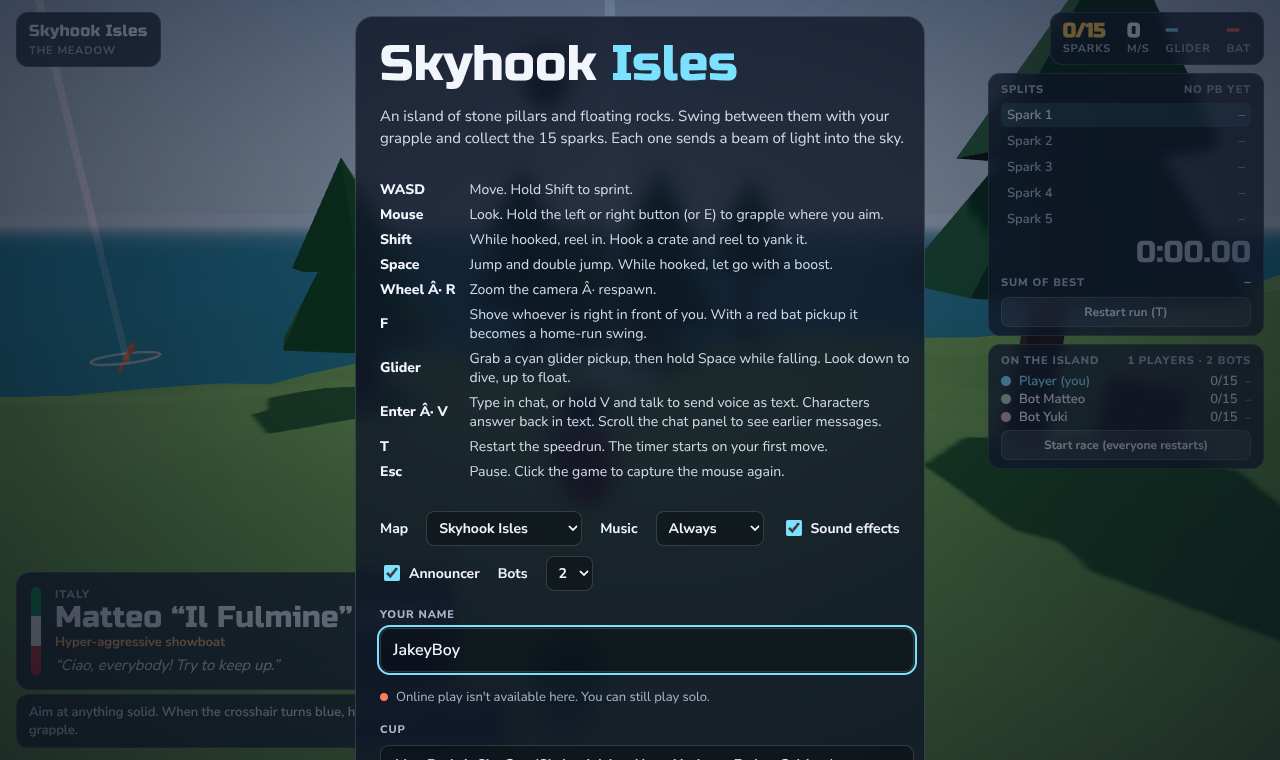
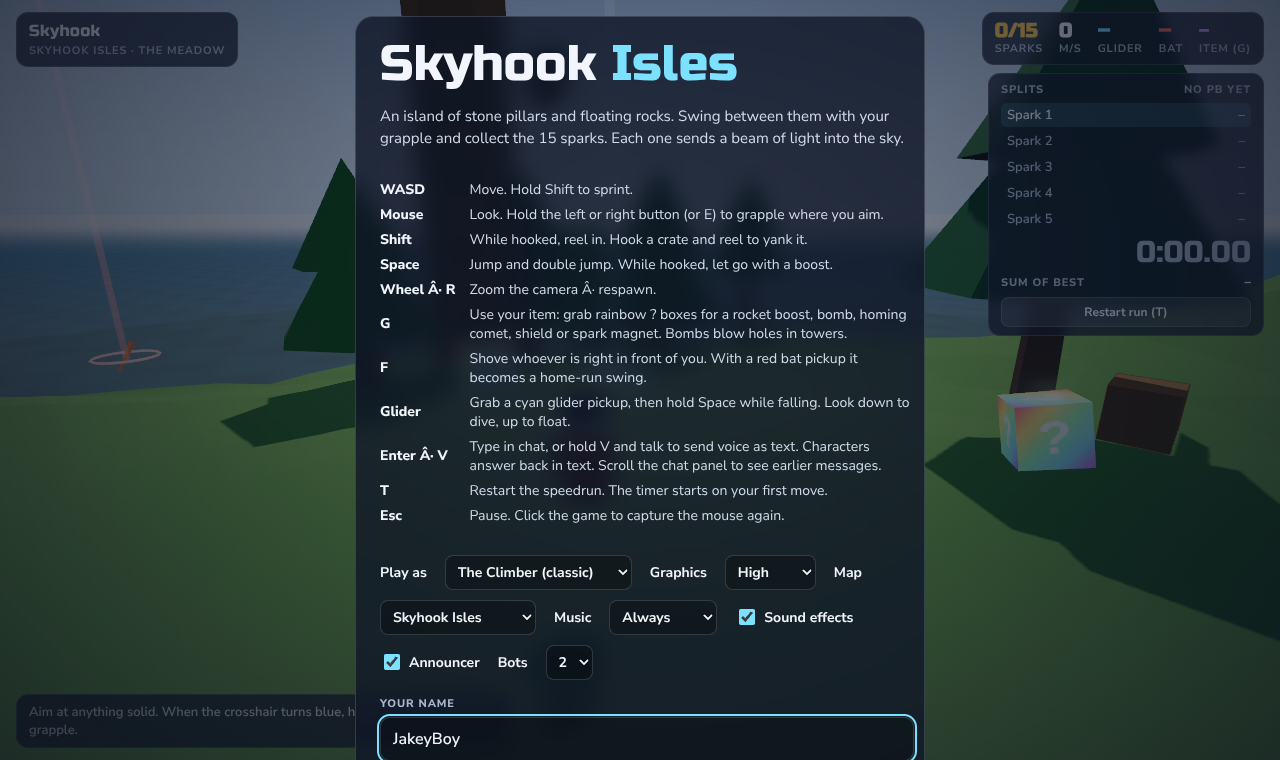
Skyhook Isles: bloom, animated water and a graphics quality setting
UnrealBloomPass + OutputPass via an import map (with fallback), a scrolling
procedural water normal map, and High/Medium/Low quality (Medium default on
touch devices). Tests run at Low plus a High bloom check. Tests: 34 + 30.

Claude-Session: https://claude.ai/code/session_014E3de695jCFiKQExDjwcmx

diff --git a/skyhook-isles/js/main.js b/skyhook-isles/js/main.js
@@ -29,7 +29,11 @@ const slopeAt=(x,z)=>Math.hypot(H(x+1,z)-H(x-1,z),H(x,z+1)-H(x,z-1))/2;
 
 // ---------------- renderer / scene ----------------
 const renderer=new THREE.WebGLRenderer({antialias:true,powerPreference:"high-performance"});
-renderer.setPixelRatio(Math.min(window.devicePixelRatio||1,1.5));
+// graphics quality: high on desktop, medium on touch devices by default
+const TOUCH_DEVICE = matchMedia("(pointer: coarse)").matches;
+let GFX="high"; try{ GFX=localStorage.getItem("skyhook.gfx") || (TOUCH_DEVICE?"medium":"high"); }catch(e){ GFX=TOUCH_DEVICE?"medium":"high"; }
+const GFX_SET={ high:{pr:1.75,shadow:4096,bloom:1}, medium:{pr:1.25,shadow:2048,bloom:.5}, low:{pr:1,shadow:1024,bloom:0} }[GFX]||{pr:1.25,shadow:2048,bloom:.5};
+renderer.setPixelRatio(Math.min(window.devicePixelRatio||1,GFX_SET.pr));
 renderer.setSize(innerWidth,innerHeight);
 renderer.shadowMap.enabled=true; renderer.shadowMap.type=THREE.PCFSoftShadowMap;
 renderer.toneMapping=THREE.ACESFilmicToneMapping; renderer.toneMappingExposure=1.05;
@@ -46,7 +50,7 @@ const sky=new THREE.Mesh(new THREE.SphereGeometry(900,32,16),new THREE.ShaderMat
 scene.add(sky);
 const hemi=new THREE.HemisphereLight(...MAP.theme.hemi); scene.add(hemi);
 const sun=new THREE.DirectionalLight(...MAP.theme.sun);
-sun.castShadow=true; sun.shadow.mapSize.set(2048,2048);
+sun.castShadow=true; sun.shadow.mapSize.set(GFX_SET.shadow,GFX_SET.shadow);
 Object.assign(sun.shadow.camera,{left:-55,right:55,top:55,bottom:-55,near:1,far:300});
 sun.shadow.bias=-.0004; sun.shadow.normalBias=.05;
 scene.add(sun,sun.target);
@@ -97,7 +101,7 @@ world.addContactMaterial(new CANNON.ContactMaterial(groundMat,playerMat,{frictio
 world.addContactMaterial(new CANNON.ContactMaterial(playerMat,world.defaultMaterial,{friction:0,restitution:0}));
 world.defaultContactMaterial.friction=.4;
 
-let terrainMesh=null, terrainHF=null;
+let terrainMesh=null, terrainHF=null, waterNormals=null;
 const grappleables=[];   // meshes the hook can bite into
 const camBlockers=[];    // meshes the camera won't pass through
 const dynamics=[];       // {mesh, body}
@@ -121,6 +125,17 @@ const dynamics=[];       // {mesh, body}
 {
   const m=new THREE.Mesh(new THREE.PlaneGeometry(3000,3000),(MAP.theme.waterGlow ? new THREE.MeshStandardMaterial({color:MAP.theme.water,emissive:MAP.theme.water,emissiveIntensity:.85,roughness:.6}) : new THREE.MeshStandardMaterial({color:MAP.theme.water,roughness:.25,metalness:.1,transparent:true,opacity:.88})));
   m.rotation.x=-Math.PI/2; m.position.y=0; m.receiveShadow=true; scene.add(m);
+  if (!MAP.theme.waterGlow){
+    // a tiling normal map built from a few sine waves, scrolled every frame so the sea ripples and catches the sun
+    const N2=128, data=new Uint8Array(N2*N2*4);
+    for (let y=0;y<N2;y++) for (let x=0;x<N2;x++){ const u=x/N2*Math.PI*2, v=y/N2*Math.PI*2;
+      const dx=Math.cos(u*3+v)*.5+Math.cos(u*5-v*2)*.3+Math.cos(u*2+v*4)*.2, dy=Math.cos(v*3-u)*.5+Math.cos(v*5+u*3)*.3+Math.cos(v*2-u*5)*.2;
+      const nx=dx*.35, ny=dy*.35, nz=1, l=Math.hypot(nx,ny,nz), o=(y*N2+x)*4;
+      data[o]=(nx/l*.5+.5)*255; data[o+1]=(ny/l*.5+.5)*255; data[o+2]=(nz/l*.5+.5)*255; data[o+3]=255; }
+    const nt=new THREE.DataTexture(data,N2,N2); nt.wrapS=nt.wrapT=THREE.RepeatWrapping; nt.repeat.set(140,140); nt.needsUpdate=true;
+    m.material.normalMap=nt; m.material.normalScale.set(.6,.6); m.material.roughness=.12; m.material.metalness=.35; m.material.needsUpdate=true;
+    waterNormals=nt;
+  }
 }
 
 // ---------------- map objects ----------------
@@ -781,7 +796,8 @@ function frame(){
       if (h.dataset.v!==html){ h.dataset.v=html; h.innerHTML=html; } }
   }
   renderTimer(); updateItems(dt); if (running) updateFace(dt);
-  renderer.render(scene,camera);
+  if (waterNormals){ waterNormals.offset.x=(t*.006)%1; waterNormals.offset.y=(t*.004)%1; }
+  if (composer) composer.render(); else renderer.render(scene,camera);
 }
 // ---------------- multiplayer ----------------
 // Each player runs their own physics and shares a pose about 20 times a second through room presence.
@@ -1774,9 +1790,24 @@ function renderPlayers(){
     const sc=document.createElement("span"); sc.textContent=r.s+"/"+TOTAL+(r.dk?" · "+r.dk+" dunk"+(r.dk>1?"s":""):""); const tm=document.createElement("small"); tm.textContent = r.rs==="done" ? fmtT(r.t) : r.rs==="running" ? fmt(r.t) : "–";
     d.append(dot,n,sc,tm); return d; }));
 }
-addEventListener("resize",()=>{ renderer.setSize(innerWidth,innerHeight); camera.aspect=innerWidth/innerHeight; camera.updateProjectionMatrix(); });
+addEventListener("resize",()=>{ renderer.setSize(innerWidth,innerHeight); camera.aspect=innerWidth/innerHeight; camera.updateProjectionMatrix(); if (composer) composer.setSize(innerWidth,innerHeight); });
+// bloom: load three.js post-processing add-ons; if they can't load, the game renders normally
+let composer=null;
+if (GFX_SET.bloom>0){
+  Promise.all([import("three/addons/postprocessing/EffectComposer.js"),import("three/addons/postprocessing/RenderPass.js"),import("three/addons/postprocessing/UnrealBloomPass.js"),import("three/addons/postprocessing/OutputPass.js")])
+    .then(([{EffectComposer},{RenderPass},{UnrealBloomPass},{OutputPass}])=>{
+      const rt=new THREE.WebGLRenderTarget(innerWidth,innerHeight,{type:THREE.HalfFloatType,samples:GFX==="high"?4:0});
+      const c=new EffectComposer(renderer,rt); c.setPixelRatio(renderer.getPixelRatio()); c.setSize(innerWidth,innerHeight);
+      c.addPass(new RenderPass(scene,camera));
+      const night=MAP.theme.night||MAP.theme.waterGlow;
+      const bloom=new UnrealBloomPass(new THREE.Vector2(innerWidth*GFX_SET.bloom,innerHeight*GFX_SET.bloom), night?.85:.45, .5, night?.6:.9);
+      c.addPass(bloom); c.addPass(new OutputPass());
+      composer=c;
+    }).catch(()=>{ composer=null; });
+}
+{ const sel=$("optGfx"); sel.value=GFX; sel.addEventListener("change",()=>{ try{ localStorage.setItem("skyhook.gfx",sel.value); }catch(e){} location.reload(); }); }
 // interpolated poses start at the origin until the first physics step
 for (const b of world.bodies){ b.interpolatedPosition.copy(b.position); b.interpolatedQuaternion.copy(b.quaternion); }
 // small hook for automated testing; not used by the game itself
-window.__skyDebug={ giveItem:k=>{ heldItem=k; }, useItem:()=>useItem(), item:()=>({heldItem,shieldT,magnetT,lastBoom}), towers:()=>towers.map(t=>t.chunks.filter(c=>c.alive).length), towersAt:i=>({x:towerSpots[i].x,y:towerSpots[i].g,z:towerSpots[i].z}), explodeAt:(x,y,z)=>explode(x,y,z,7,1,null,true), itemBoxes, faceSheet:()=>{ const out=[]; for (const C of [CLASSIC,...CHARACTERS]) for (const m of ["idle","grin","ow","panic","dizzy","thrill"]){ drawFace(C,m,false); out.push($("face").toDataURL()); } return out; }, face:()=>({mood:faceMood}), hurt:()=>{ faceHurtT=1.2; }, calm:()=>{ faceHurtT=faceHappyT=faceDizzyT=0; shieldT=0; magnetT=0; }, forceRaceEnd:()=>{ raceCount=0; raceLive=true; raceOver=false; endRace(standings()); }, cup:()=>cup, restartRun:()=>restartRun(), setBotParams:(k,o)=>{ BOT_PARAMS[k]=o; }, getBotParams:()=>JSON.parse(JSON.stringify(BOT_PARAMS)), botRace:(b,dt)=>botRace(b,dt), anchors:()=>ANCHORS, chat:()=>({lastChat,lastBchat,log:[...$("chatlog").children].map(d=>d.textContent)}), sendChatText:t=>{ $("chatIn").value=t; sendChat(); }, setSample:f=>{ sampleFn=f; }, CHARACTERS, intro:()=>({showing:introCh,queue:introQ.slice(),seen:[...introSeen]}), race:()=>({raceCount,raceId,raceLive,seen:[...raceSeen]}), bots:()=>bots, botAvatars, hitBot, ctrl:()=>amController, attack, takeHit, batPickups, bat:()=>batTime, audio:()=>({ctx:!!ac,state:ac&&ac.state,musicOn,step:mStep}), presence:()=>({lastHit,lastSplash,dunks}), avatars, net:()=>({room:!!room,myPeer}), keys, tick:(n=1)=>{ for(let i=0;i<n;i++){ controls(1/60); world.step(1/60,1/60,1); updateBots(1/60); } }, ground:()=>({standing,onGround}), probe:p=>groundBelow(p), body:pBody, pillars, rocks, sparks, gliderPickups, glide:()=>({gliding,gliderTime}), view:(y,pt)=>{ yaw=y; pitch=pt; }, hook:()=>hook&&hook.phase, aim:()=>aimHit&&aimHit.distance, grounded:()=>grounded };
+window.__skyDebug={ gfx:()=>({GFX,composer:!!composer}), giveItem:k=>{ heldItem=k; }, useItem:()=>useItem(), item:()=>({heldItem,shieldT,magnetT,lastBoom}), towers:()=>towers.map(t=>t.chunks.filter(c=>c.alive).length), towersAt:i=>({x:towerSpots[i].x,y:towerSpots[i].g,z:towerSpots[i].z}), explodeAt:(x,y,z)=>explode(x,y,z,7,1,null,true), itemBoxes, faceSheet:()=>{ const out=[]; for (const C of [CLASSIC,...CHARACTERS]) for (const m of ["idle","grin","ow","panic","dizzy","thrill"]){ drawFace(C,m,false); out.push($("face").toDataURL()); } return out; }, face:()=>({mood:faceMood}), hurt:()=>{ faceHurtT=1.2; }, calm:()=>{ faceHurtT=faceHappyT=faceDizzyT=0; shieldT=0; magnetT=0; }, forceRaceEnd:()=>{ raceCount=0; raceLive=true; raceOver=false; endRace(standings()); }, cup:()=>cup, restartRun:()=>restartRun(), setBotParams:(k,o)=>{ BOT_PARAMS[k]=o; }, getBotParams:()=>JSON.parse(JSON.stringify(BOT_PARAMS)), botRace:(b,dt)=>botRace(b,dt), anchors:()=>ANCHORS, chat:()=>({lastChat,lastBchat,log:[...$("chatlog").children].map(d=>d.textContent)}), sendChatText:t=>{ $("chatIn").value=t; sendChat(); }, setSample:f=>{ sampleFn=f; }, CHARACTERS, intro:()=>({showing:introCh,queue:introQ.slice(),seen:[...introSeen]}), race:()=>({raceCount,raceId,raceLive,seen:[...raceSeen]}), bots:()=>bots, botAvatars, hitBot, ctrl:()=>amController, attack, takeHit, batPickups, bat:()=>batTime, audio:()=>({ctx:!!ac,state:ac&&ac.state,musicOn,step:mStep}), presence:()=>({lastHit,lastSplash,dunks}), avatars, net:()=>({room:!!room,myPeer}), keys, tick:(n=1)=>{ for(let i=0;i<n;i++){ controls(1/60); world.step(1/60,1/60,1); updateBots(1/60); } }, ground:()=>({standing,onGround}), probe:p=>groundBelow(p), body:pBody, pillars, rocks, sparks, gliderPickups, glide:()=>({gliding,gliderTime}), view:(y,pt)=>{ yaw=y; pitch=pt; }, hook:()=>hook&&hook.phase, aim:()=>aimHit&&aimHit.distance, grounded:()=>grounded };
 frame();

diff --git a/tools/screenshots.js b/tools/screenshots.js
@@ -4,17 +4,17 @@ const { openGame, ROOT } = require('./harness');
 const OUT = path.join(ROOT, 'docs', 'img');
 
 (async () => {
-  const { browser, page, errors } = await openGame('skyhook-isles', { viewport: { width: 1280, height: 760 } });
+  const { browser, page, errors } = await openGame('skyhook-isles', { viewport: { width: 1280, height: 760 }, gfx: 'high' });
   await page.waitForFunction(() => window.__skyDebug, null, { timeout: 30000 });
   await page.fill('#nick', 'JakeyBoy');
-  await page.screenshot({ path: path.join(OUT, 'skyhook-start.png') });
+  await page.screenshot({ path: path.join(OUT, 'skyhook-start.png'), timeout: 120000 });
   await page.selectOption('#optBots', '0');
   await page.click('#go'); await page.waitForTimeout(800);
 
   // the back side: outer islets and the ring of catch-rocks
   await page.evaluate(() => { const d = window.__skyDebug; d.body.position.set(40, 60, -10); d.body.velocity.set(0, 0, 0); d.view(-Math.PI / 4, .42); });
   await page.waitForTimeout(500);
-  await page.screenshot({ path: path.join(OUT, 'skyhook-islets.png') });
+  await page.screenshot({ path: path.join(OUT, 'skyhook-islets.png'), timeout: 120000 });
 
   // the cast, lined up
   await page.evaluate(() => { const el = document.getElementById('optBots'); el.value = '7'; el.dispatchEvent(new Event('change')); });
@@ -22,12 +22,12 @@ const OUT = path.join(ROOT, 'docs', 'img');
   await page.waitForTimeout(600);
   await page.evaluate(() => { const d = window.__skyDebug, me = d.body.position; d.bots().forEach((b, i) => { b.body.position.set(me.x - 7 + i * 2.3, me.y + .5, me.z - 8); b.body.velocity.set(0, 0, 0); b.introT = 99; }); d.tick(4); });
   await page.waitForTimeout(2500);
-  await page.screenshot({ path: path.join(OUT, 'skyhook-cast.png') });
+  await page.screenshot({ path: path.join(OUT, 'skyhook-cast.png'), timeout: 120000 });
 
   // chat with a bot reply (fake reply so the shot is repeatable)
   await page.evaluate(() => { const d = window.__skyDebug; d.setSample(async () => ({ text: 'Duuude, chill. I will catch you on the next swell.' })); d.sendChatText('Dylan you are going in the water'); });
   await page.waitForTimeout(1200);
-  await page.screenshot({ path: path.join(OUT, 'skyhook-chat.png') });
+  await page.screenshot({ path: path.join(OUT, 'skyhook-chat.png'), timeout: 120000 });
 
   // every other map: a street-level shot and a high overview
   const VIEWS = { neon: [[-60, 70, 60, 2.36, .42]], volcano: [[-30, 70, -25, 3.9, .5]], glacier: [[40, 75, 50, .75, .48]], junkyard: [[-10, 75, 75, 0, .75]] };

diff --git a/tools/harness.js b/tools/harness.js
@@ -55,7 +55,7 @@ function startServer() {
   return new Promise((resolve) => server.listen(0, '127.0.0.1', () => { serverPort = server.address().port; server.unref(); resolve(serverPort); }));
 }
 
-async function openGame(game, { fakeRoom = false, viewport = { width: 1000, height: 620 }, hash = '' } = {}) {
+async function openGame(game, { fakeRoom = false, viewport = { width: 1000, height: 620 }, hash = '', gfx = 'low' } = {}) {
   ensureLibs();
   const port = await startServer();
   const browser = await chromium.launch({ args: ['--use-gl=angle', '--use-angle=swiftshader', '--enable-unsafe-swiftshader', '--autoplay-policy=no-user-gesture-required'] });
@@ -65,7 +65,14 @@ async function openGame(game, { fakeRoom = false, viewport = { width: 1000, heig
   for (const [url, [spec, file]] of Object.entries(LIBS)) {
     await page.route(url, (r) => r.fulfill({ path: path.join(LIB_DIR, spec, file), contentType: 'text/javascript' }));
   }
+  // three.js add-ons (post-processing etc.) live under examples/jsm in the same package
+  await page.route('https://cdn.jsdelivr.net/npm/three@0.160.0/examples/jsm/**', (r) => {
+    const rel = r.request().url().split('/examples/jsm/')[1];
+    r.fulfill({ path: path.join(LIB_DIR, 'three@0.160.0', 'package', 'examples', 'jsm', rel), contentType: 'text/javascript' });
+  });
   await page.route('https://fonts.**', (r) => r.abort());
+  // tests run at low graphics: the software renderer is far too slow for bloom (real devices are fine)
+  await page.addInitScript((g) => { try { if (!localStorage.getItem('skyhook.gfx.pinned')) localStorage.setItem('skyhook.gfx', g); } catch (e) {} }, gfx);
   if (fakeRoom) await page.addInitScript(fakeRoomInit);
   await page.goto(`http://127.0.0.1:${port}/${game}/index.html${hash}`);
   return { browser, page, errors };

diff --git a/tools/test-maps.js b/tools/test-maps.js
@@ -30,6 +30,16 @@ const { openGame, checker } = require('./harness');
     c.check(`${key}: walking is smooth`, r.standing > .8 && r.vmin > -12 && r.vmax < 12, `standing ${(r.standing * 100).toFixed(0)}%, vy ${r.vmin.toFixed(1)}..${r.vmax.toFixed(1)}`);
     c.check(`${key}: bots spawn and move`, r.bots === 2 && r.botMoves > 3, `bots ${r.bots}, moved ${r.botMoves.toFixed(1)} m`);
   }
+  // graphics: at High, the bloom post-processing add-ons load and render without errors
+  {
+    const hi = await openGame('skyhook-isles', { gfx: 'high' });
+    await hi.page.waitForFunction(() => window.__skyDebug, null, { timeout: 30000 });
+    await hi.page.waitForFunction(() => window.__skyDebug.gfx().composer, null, { timeout: 30000 }).catch(() => {});
+    const g = await hi.page.evaluate(() => window.__skyDebug.gfx());
+    await hi.page.waitForTimeout(1500);
+    c.check('bloom loads at High graphics', g.GFX === 'high' && g.composer && hi.errors.length === 0, JSON.stringify(g) + ' ' + hi.errors.join(' | '));
+    await hi.browser.close();
+  }
   // cup: starting a cup goes to its first map and auto-starts a race there
   await page.goto(page.url().split('#')[0] + '#map-isles'); await page.reload();
   await page.waitForFunction(() => window.__skyDebug, null, { timeout: 30000 });

diff --git a/skyhook-isles/index.html b/skyhook-isles/index.html
@@ -227,6 +227,8 @@ body{background:#1b2a44;color:var(--ink);font-family:var(--body);font-size:15px;
     <div class="opts">
       <label for="optChar">Play as</label>
       <select id="optChar"></select>
+      <label for="optGfx">Graphics</label>
+      <select id="optGfx"><option value="high">High</option><option value="medium">Medium</option><option value="low">Low</option></select>
       <label for="optMap">Map</label>
       <select id="optMap"></select>
       <label for="optMusic">Music</label>
@@ -250,4 +252,5 @@ body{background:#1b2a44;color:var(--ink);font-family:var(--body);font-size:15px;
 <script>
 setTimeout(function(){ if(!window.__skyhookBooted){ var e=document.getElementById("err"); e.hidden=false; e.textContent="The 3D engine didn't load. Check your connection and reload the page."; document.getElementById("go").disabled=true; } },15000);
 </script>
+<script type="importmap">{"imports":{"three":"https://cdn.jsdelivr.net/npm/three@0.160.0/build/three.module.js","three/addons/":"https://cdn.jsdelivr.net/npm/three@0.160.0/examples/jsm/"}}</script>
 <script type="module" src="js/main.js"></script>

diff --git a/docs/DESIGN-LOG.md b/docs/DESIGN-LOG.md
@@ -4,6 +4,15 @@ Everything built in cOOL-gAMEZ, newest first. Screenshots live in `docs/img/`. R
 
 ---
 
+## 2026-11-14 (overnight): Graphics push
+
+- **Bloom** (three.js `UnrealBloomPass` with an `OutputPass` for tone mapping) makes neon signs, lit windows, lava, sparks, item boxes and lightning glow. It's stronger on night and lava maps. The add-ons load through an import map, and if they can't load, the game renders normally.
+- **Animated water:** a procedurally generated tiling normal map (sums of sines), scrolled every frame, with low roughness so the sea ripples and catches the sun.
+- **Graphics setting** (start screen): High (pixel ratio up to 1.75, 4096 shadows, full-res bloom, 4× MSAA), Medium (1.25, 2048, half-res bloom), Low (1, 1024, no bloom). The default is High on desktop and Medium on touch devices like the iPad.
+- **Tests** run at Low, because the software renderer can't keep up with bloom, plus one check at High that the bloom add-ons load cleanly.
+
+![Neon Harbour with bloom](img/neon-overview.png) ![Skyhook Isles with block towers](img/skyhook-islets.png)
+
 ## 2026-11-14 (overnight): Mario Kart items and destructible towers
 
 **Item boxes.** About 16 rainbow ? boxes per map (around spawn, on some pillar tops, scattered on the ground) respawn 8 s after pickup. You hold one item and use it with **G** (or the Item button). Rolls are weighted by race position: leaders mostly get shields and magnets, and the back of the pack gets bombs and comets.

diff --git a/CLAUDE.md b/CLAUDE.md
@@ -35,6 +35,7 @@ When you change a game, republish to its existing artifact URL (pass the URL, or
 
 
 - Check scripts parse: extract the `<script>` body and run `node --check`, or for module scripts write it to a `.mjs` file first.
+- Tests run at Low graphics: the harness sets `skyhook.gfx=low` because bloom is too slow in the software renderer. Pass `gfx: 'high'` to `openGame` for a quality check. `index.html` has an import map for `three` and `three/addons/` (post-processing); the harness serves those from the local npm copy.
 - Run gameplay in headless Chromium with Playwright. Use `--use-gl=angle --use-angle=swiftshader --enable-unsafe-swiftshader` for WebGL. It renders slowly, so don't judge frame rate from it.
 - **The cloud sandbox blocks cdn.jsdelivr.net**, but npm is reachable. Run `npm pack three@0.160.0 cannon-es@0.20.0` in a scratch folder, unpack, and use Playwright `page.route()` to serve the CDN URLs from those local files. The published page still loads from the CDN.
 - `skyhook-isles` exposes `window.__skyDebug` for automated tests: player body, pillars, sparks, glider pickups, hook and ground state, a view setter, a `keys` set, and `tick(n)`, which steps controls and physics exactly n frames of 1/60 s. Use `tick` for physics measurements, because headless rendering is too slow for real-time timing.

diff --git a/ROADMAP.md b/ROADMAP.md
@@ -45,7 +45,8 @@ This file is the work queue for Claude sessions, including unattended and schedu
 - [x] Character select (the player picks a cast member; bots fill the rest) plus a Doom-style reacting face in the HUD.
 - [x] Mario Kart items: a leader hunter (blue-shell equivalent), bombs, and destructible buildings.
 - [ ] Bots use items too (grab boxes, throw bombs at nearby players, fire comets when behind).
-- [ ] Graphics push: bloom, better water, rain, and a quality setting tuned for iPad.
+- [x] Graphics push: bloom, better water, rain, and a quality setting tuned for iPad.
+- [ ] More graphics: volumetric-looking light shafts, soft clouds, screen-space ambient occlusion at High, better character models.
 - [ ] Owner's recorded announcer clips (`npm run voice`), when the owner sends them.
 
 ## Questions for the owner
